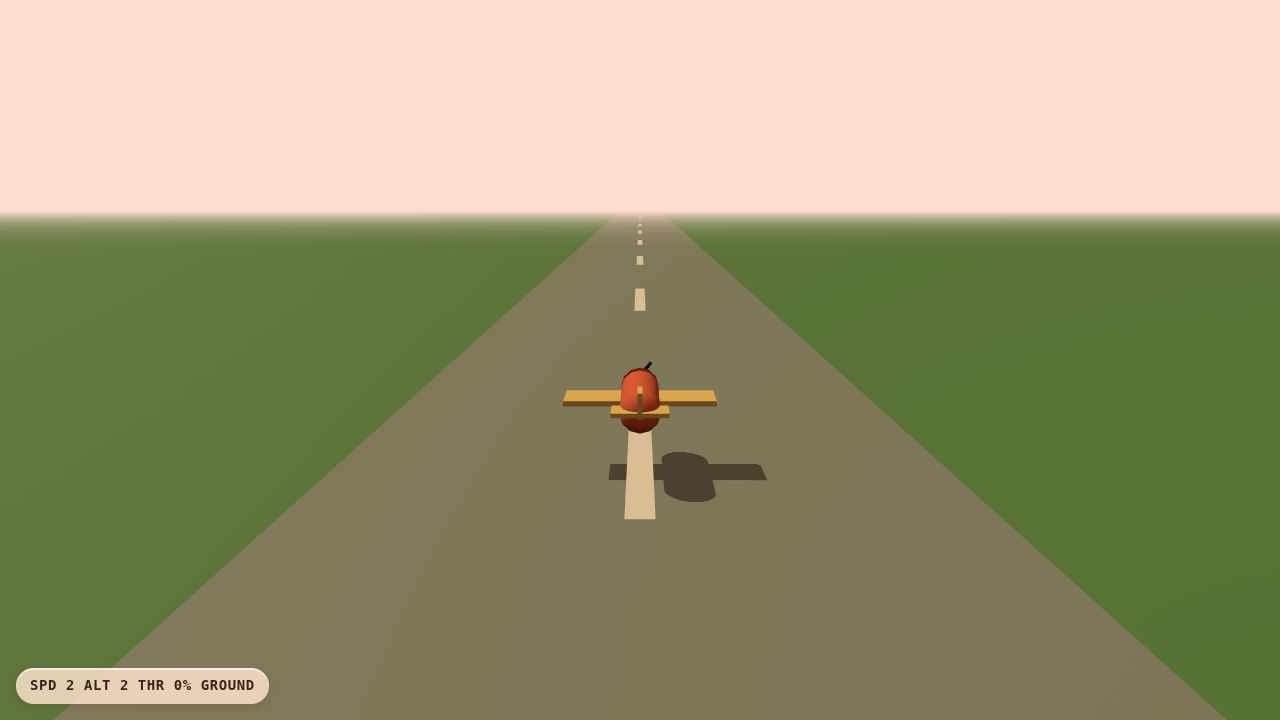
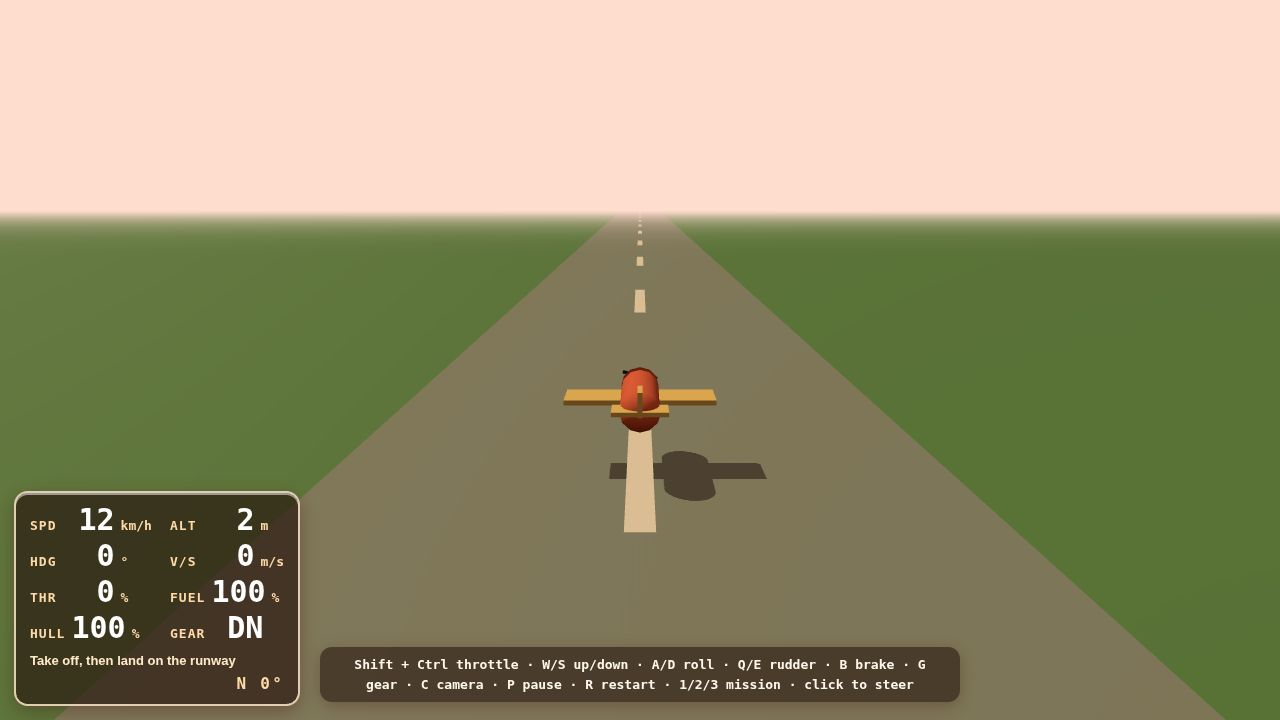
CP3: focus-hardened controls (window+document, focus on click, blur reset), on-screen controls hint (10s + pause), full HUD with required ids and 30px values

Changed region(s): [[0.0, 0.6722, 0.75, 1.0], [0.4688, 0.7028, 0.5312, 0.7333], [0.4688, 0.55, 0.5312, 0.5806]]

diff --git a/game/src/hud/hud.js b/game/src/hud/hud.js
@@ -1,0 +1,74 @@
+// HUD built from DOM nodes. One job: show flight instruments at screen size.
+// Digits are kept large (>= 28 px) so they read well shrunk to 400 px wide.
+// All text is English per the language policy.
+
+export function createHud(doc) {
+  const el = doc.createElement("div");
+  el.id = "hud";
+
+  const t = (id, label, unit) => {
+    const row = doc.createElement("div");
+    row.className = "hud-cell";
+    const lab = doc.createElement("span");
+    lab.className = "hud-label";
+    lab.textContent = label;
+    const val = doc.createElement("span");
+    val.id = id;
+    val.className = "hud-value";
+    val.textContent = "0";
+    const uni = doc.createElement("span");
+    uni.className = "hud-unit";
+    uni.textContent = unit;
+    row.appendChild(lab);
+    row.appendChild(val);
+    row.appendChild(uni);
+    el.appendChild(row);
+    return val;
+  };
+
+  t("hud-speed", "SPD", "km/h");
+  t("hud-alt", "ALT", "m");
+  t("hud-heading", "HDG", "\u00b0");
+  t("hud-vsi", "V/S", "m/s");
+  t("hud-throttle", "THR", "%");
+  const fuel = t("hud-fuel", "FUEL", "%");
+  const hull = t("hud-hull", "HULL", "%");
+  const gear = t("hud-gear", "GEAR", "");
+  const objective = doc.createElement("div");
+  objective.id = "hud-objective";
+  objective.className = "hud-objective";
+  objective.textContent = "Take off, then land on the runway";
+  el.appendChild(objective);
+
+  const compass = doc.createElement("div");
+  compass.id = "hud-compass";
+  compass.className = "hud-compass";
+  el.appendChild(compass);
+
+  doc.body.appendChild(el);
+  fuel.parentNode; // mark used
+  hull.parentNode;
+  return {
+    el,
+    update(state) {
+      const deg = state.heading * 180 / Math.PI;
+      const hdg = ((Math.round(deg) % 360) + 360) % 360;
+      document.getElementById("hud-speed").textContent = Math.round(state.speed * 3.6).toString();
+      document.getElementById("hud-alt").textContent = Math.round(state.y).toString();
+      document.getElementById("hud-heading").textContent = hdg;
+      document.getElementById("hud-vsi").textContent = state.onGround ? "0" : state.verticalSpeed.toFixed(0);
+      document.getElementById("hud-throttle").textContent = Math.round(state.throttle * 100).toString();
+      document.getElementById("hud-fuel").textContent = Math.round(state.fuel).toString();
+      document.getElementById("hud-hull").textContent = Math.round(state.hull).toString();
+      document.getElementById("hud-gear").textContent = state.gearDown ? "DN" : "UP";
+      this.renderCompass(hdg);
+    },
+    renderCompass(hdg) {
+      const el2 = document.getElementById("hud-compass");
+      if (!el2) return;
+      const dirs = ["N", "NE", "E", "SE", "S", "SW", "W", "NW"];
+      const idx = Math.round(hdg / 45) % 8;
+      el2.textContent = dirs[idx] + "  " + hdg + "\u00b0";
+    },
+  };
+}

diff --git a/game/src/main.js b/game/src/main.js
@@ -1,6 +1,7 @@
 import * as THREE from "three";
 import { createFlightState, stepFlight } from "./flight-model.js";
 import { createInput } from "./input.js";
+import { createHud } from "./hud/hud.js";
 
 const canvas = document.getElementById("game");
 const renderer = new THREE.WebGLRenderer({ canvas, antialias: true });
@@ -104,10 +105,13 @@ scene.add(plane);
 
 const state = createFlightState({ y: 1.6 });
 const input = createInput(window);
+const hud = createHud(document);
 
-const hud = document.createElement("div");
-hud.id = "hud";
-document.body.appendChild(hud);
+const hintEl = document.createElement("div");
+hintEl.id = "controls-hint";
+hintEl.innerHTML =
+  "Shift + Ctrl throttle &middot; W/S up/down &middot; A/D roll &middot; Q/E rudder &middot; B brake &middot; G gear &middot; C camera &middot; P pause &middot; R restart &middot; 1/2/3 mission &middot; click to steer";
+document.body.appendChild(hintEl);
 
 function resize() {
   camera.aspect = window.innerWidth / window.innerHeight;
@@ -118,7 +122,9 @@ window.addEventListener("resize", resize);
 
 const clock = new THREE.Clock();
 let frames = 0;
+let elapsed = 0;
 let propAngle = 0;
+let paused = false;
 const camPos = new THREE.Vector3(0, 6, -14);
 const camLook = new THREE.Vector3(0, 2, 0);
 
@@ -126,9 +132,17 @@ function tick() {
   const dt = Math.min(clock.getDelta(), 0.05);
   const c = input.sample();
 
-  stepFlight(state, c, dt, function () { return 0; });
-  if (state.onGround && c.gearToggle) state.gearDown = !state.gearDown;
-  propAngle += (6 + state.throttle * 60) * dt;
+  if (c.pauseToggle) paused = !paused;
+
+  if (!paused) {
+    stepFlight(state, c, dt, function () { return 0; });
+    if (state.onGround && c.gearToggle) state.gearDown = !state.gearDown;
+    propAngle += (6 + state.throttle * 60) * dt;
+    elapsed += dt;
+  }
+
+  // Controls hint: first 10 seconds, and again on the pause screen.
+  hintEl.classList.toggle("show", !paused && elapsed < 10);
 
   plane.position.set(state.x, state.y, state.z);
   plane.rotation.order = "YXZ";
@@ -151,9 +165,8 @@ function tick() {
   camLook.lerp(look, 1 - Math.pow(0.0001, dt));
   camera.lookAt(camLook);
 
-  hud.textContent =
-    "SPD " + state.speed.toFixed(0) + " ALT " + state.y.toFixed(0) + " THR " + Math.round(state.throttle * 100) + "%" +
-    (state.onGround ? " GROUND" : "");
+  hud.update(state);
+  if (paused) hud.el.classList.add("paused"); else hud.el.classList.remove("paused");
 
   renderer.render(scene, camera);
   frames += 1;

diff --git a/game/styles.css b/game/styles.css
@@ -28,15 +28,76 @@ html, body {
 
 #hud {
   position: fixed;
-  left: 16px;
-  bottom: 16px;
-  padding: 8px 14px;
-  font: 600 14px/1.4 ui-monospace, SFMono-Regular, Menlo, monospace;
-  letter-spacing: 0.04em;
-  color: #3a2318;
-  background: rgba(255, 228, 205, 0.82);
-  border-radius: 999px;
-  box-shadow: 0 2px 0 rgba(255, 255, 255, 0.6) inset, 0 3px 10px rgba(90, 40, 20, 0.18);
+  left: 14px;
+  bottom: 14px;
+  display: grid;
+  grid-template-columns: repeat(2, auto);
+  gap: 6px 18px;
+  padding: 12px 14px;
+  min-width: 230px;
+  border-radius: 14px;
+  background: rgba(43, 26, 17, 0.72);
+  border: 2px solid rgba(255, 232, 205, 0.85);
+  box-shadow: 0 6px 18px rgba(60, 20, 10, 0.35), 0 2px 0 rgba(255,255,255,0.5) inset;
+  color: #fff3e2;
   pointer-events: none;
   user-select: none;
+}
+#hud.paused {
+  outline: 3px solid rgba(255, 240, 180, 0.9);
+}
+.hud-cell {
+  display: flex;
+  align-items: baseline;
+  gap: 6px;
+}
+.hud-label {
+  font: 700 13px/1 ui-monospace, monospace;
+  letter-spacing: 0.08em;
+  color: #ffd9a8;
+}
+.hud-value {
+  font: 700 30px/1 ui-monospace, monospace;
+  color: #ffffff;
+  min-width: 52px;
+  text-align: right;
+}
+.hud-unit {
+  font: 700 13px/1 ui-monospace, monospace;
+  color: #ffd9a8;
+}
+.hud-objective {
+  grid-column: 1 / -1;
+  margin-top: 4px;
+  font: 700 13px/1.3 sans-serif;
+  color: #ffe9c9;
+}
+.hud-compass {
+  grid-column: 1 / -1;
+  font: 700 16px/1 ui-monospace, monospace;
+  letter-spacing: 0.14em;
+  color: #ffdbaa;
+  text-align: right;
+}
+
+#controls-hint {
+  position: fixed;
+  left: 50%;
+  bottom: 18px;
+  transform: translateX(-50%);
+  padding: 8px 16px;
+  max-width: 86vw;
+  font: 600 13px/1.5 ui-monospace, SFMono-Regular, Menlo, monospace;
+  text-align: center;
+  color: #fff7ec;
+  background: rgba(40, 24, 16, 0.62);
+  border-radius: 12px;
+  box-shadow: 0 4px 16px rgba(60, 20, 10, 0.3);
+  pointer-events: none;
+  user-select: none;
+  opacity: 0;
+  transition: opacity 0.4s ease;
+}
+#controls-hint.show {
+  opacity: 1;
 }

diff --git a/game/src/input.js b/game/src/input.js
@@ -5,6 +5,7 @@
 const DEAD_ZONE = 0.06;
 
 export function createInput(window) {
+  const doc = window.document;
   const keys = new Set();
   const controls = {
     pitch: 0,
@@ -38,6 +39,14 @@ export function createInput(window) {
   function onKeyUp(event) {
     keys.delete(event.code);
   }
+  function clearKeys() {
+    keys.clear();
+    mouse.enabled = false;
+    controls.throttleDelta = 0;
+    controls.pitch = 0;
+    controls.roll = 0;
+    controls.yaw = 0;
+  }
   function onMouseMove(event) {
     if (!mouse.enabled) return;
     mouse.x = (event.clientX / window.innerWidth) * 2 - 1;
@@ -45,12 +54,21 @@ export function createInput(window) {
   }
   function onPointerDown() {
     mouse.enabled = true;
+    window.focus();
+    const el = doc.getElementById("game");
+    if (el && el.focus) { try { el.focus(); } catch (_e) { /* ignore */ } }
   }
 
+  // Listen on both window and document so keys register whichever has focus.
   window.addEventListener("keydown", onKeyDown);
   window.addEventListener("keyup", onKeyUp);
+  doc.addEventListener("keydown", onKeyDown);
+  doc.addEventListener("keyup", onKeyUp);
   window.addEventListener("mousemove", onMouseMove);
   window.addEventListener("pointerdown", onPointerDown);
+  doc.addEventListener("pointerdown", onPointerDown);
+  window.addEventListener("blur", clearKeys);
+  doc.addEventListener("blur", clearKeys);
 
   function dead(v) {
     return Math.abs(v) < DEAD_ZONE ? 0 : (v - Math.sign(v) * DEAD_ZONE) / (1 - DEAD_ZONE);

diff --git a/game/index.html b/game/index.html
@@ -7,7 +7,7 @@
 <link rel="stylesheet" href="./styles.css">
 </head>
 <body>
-<canvas id="game" aria-label="Clay Wings: fly a plasticine propeller plane around a sunset archipelago"></canvas>
+<canvas id="game" tabindex="0" aria-label="Clay Wings: fly a plasticine propeller plane around a sunset archipelago"></canvas>
 <p id="status" role="status" aria-live="polite"></p>
 <script type="importmap">
 { "imports": { "three": "./vendor/three.module.min.js" } }
